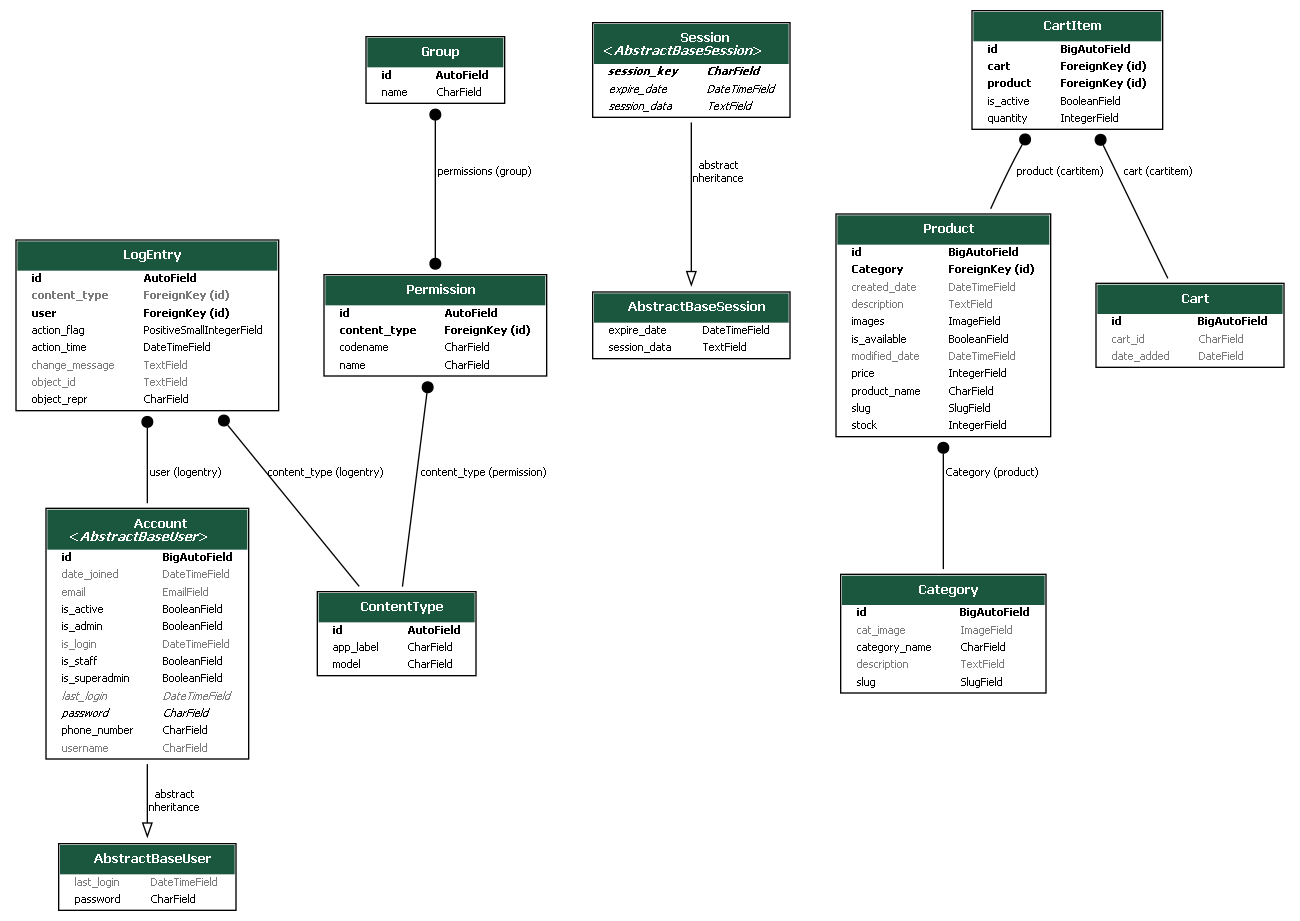
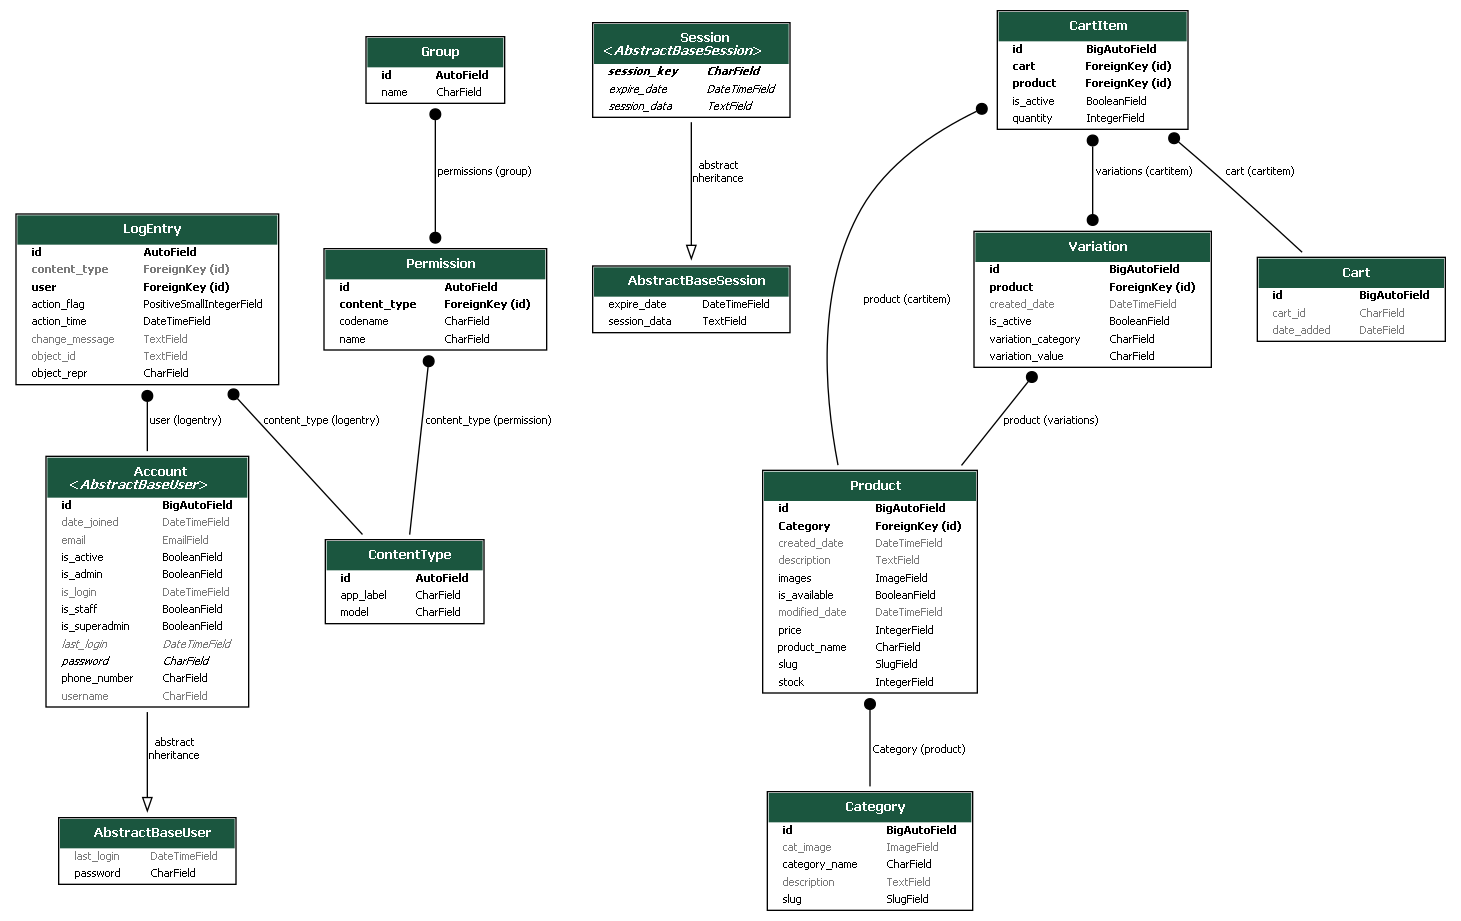
Final variation added

diff --git a/templates/cart/cart.html b/templates/cart/cart.html
@@ -42,12 +42,19 @@
 					<div class="col"> 
 						<div class="input-group input-spinner">
 							<div class="input-group-prepend">
-							<a href="{% url 'remove_cart' item.product.id %}" class="btn btn-light" type="button" id="button-plus"> <i class="fa fa-minus"></i> </a>
+							<a href="{% url 'remove_cart' item.product.id item.id %}" class="btn btn-light" type="button" id="button-plus"> <i class="fa fa-minus"></i> </a>
 							</div>
 							<input type="text" class="form-control"  value="{{item.quantity}}">
 							<div class="input-group-append">
-							<a href="{% url 'add_cart' item.product.id %}"class="btn btn-light" type="button" id="button-minus"> <i class="fa fa-plus"></i> </a>
-							</div>
+								<form action="{% url 'add_cart' item.product.id %}" method="POST">
+									{% csrf_token %}
+									{% for cart_item in item.variations.all %}
+									<input  type='hidden' name="{{cart_item.variation_category | lower }}" value="{{ cart_item.variation_value | capfirst}}">
+									{%endfor%}
+									<button class="btn btn-light" type="submit" id="button-minus"> <i class="fa fa-plus"></i> </button>
+
+						</form>
+						</div>
 						</div> <!-- input-group.// -->
 					</div> <!-- col.// -->
 	</td>
@@ -58,7 +65,7 @@
 		</div> <!-- price-wrap .// -->
 	</td>
 	<td class="text-right"> 
-	<a href="{% url 'remove_cart' item.product.id %}?delete=true" class="btn btn-danger"> Remove</a>
+	<a href="{% url 'remove_cart' item.product.id item.id %}?delete=true" onclick="return confirm('are you')" class="btn btn-danger"> Remove</a>
 	</td>
 </tr>
 {% endfor %}

diff --git a/cart/views.py b/cart/views.py
@@ -14,9 +14,11 @@ def add_cart(request, product_id):
     product = Product.objects.get(id=product_id)
     product_variation = []
     if request.method == 'POST':
+        
         for item in request.POST:
             key = item
             value = request.POST[key]
+            
             
             try:
                 variation = Variation.objects.get(product=product,variation_category__iexact=key,
@@ -37,43 +39,66 @@ def add_cart(request, product_id):
         cart = Cart.objects.create(cart_id=cart_id)
 
     cart_item = None
-    try:
-        # Attempt to retrieve the CartItem
-        cart_item = CartItem.objects.get(product=product, cart=cart)
-        if len(product_variation) > 0 :
-            cart_item.variations.clear()
-            for item in product_variation:
-                cart_item.variations.add(item)
-        cart_item.quantity += 1
-        cart_item.save()
-    except CartItem.DoesNotExist:
-        # Create a new CartItem if it does not exist
-        CartItem.objects.create(
-            product=product,
-            cart=cart,
-            quantity=1
+
+
+    is_cart_item_exists = CartItem.objects.filter(product=product,cart=cart).exists()
+    if is_cart_item_exists:
+        cart_item = CartItem.objects.filter(product=product,cart=cart)
+        ex_var_list = []
+        id=[]
+        for item in cart_item:
+            existing_variation = item.variations.all()
+            ex_var_list.append(list(existing_variation))
+            id.append(item.id)
+        
+        print(ex_var_list)
+
+        if product_variation in ex_var_list:
+            index = ex_var_list.index(product_variation)
+            item_id = id[index]
+            item = CartItem.objects.get(product=product,id=item_id)
+            item.quantity += 1
+            item.save()
+        
+        else:
+            item = CartItem.objects.create(product=product,quantity=1,cart=cart)
+            if len(product_variation) > 0 :
+                item.variations.clear()
+                item.variations.add(*product_variation)
+            item.save()
+    else:
+        cart_item = CartItem.objects.create(
+            product = product,
+            quantity = 1,
+            cart = cart,
         )
         if len(product_variation) > 0 :
-            cart_item.variations.clear()
-            for item in product_variation:
-                cart_item.variations.add(item)
+                cart_item.variations.clear()
+                cart_item.variations.add(*product_variation)
         cart_item.save()
+
     return redirect('cart')
 
-def remove_cart(request,product_id):
+
+
+
+def remove_cart(request,product_id,cart_item_id):
     delete = request.GET.get('delete', None)
     
     product = Product.objects.get(id=product_id)
     cart = Cart.objects.get(cart_id=_cart_id(request))
-    cart_item = CartItem.objects.get(product=product , cart = cart)
+    try: 
+        cart_item = CartItem.objects.get(product=product , cart = cart,id=cart_item_id)
 
-    if delete == 'true':
-        cart_item.delete()
-    elif cart_item.quantity > 1:
-        cart_item.quantity -= 1
-        cart_item.save()
-    else:
-        cart_item.delete()
+        if delete == 'true':
+            cart_item.delete()
+        elif cart_item.quantity > 1:
+            cart_item.quantity -= 1
+            cart_item.save()
+        else:
+            cart_item.delete()
+    except:
+        pass
     
     return redirect('cart')
     

diff --git a/cart/urls.py b/cart/urls.py
@@ -5,5 +5,6 @@ from . import views
 urlpatterns = [
     path('',views.cart,name='cart'),
     path('add_cart/<int:product_id>',views.add_cart,name='add_cart'),
-    path('remove_cart/<int:product_id>',views.remove_cart,name='remove_cart')
+    path('remove_cart/<int:product_id>/<int:cart_item_id>/',views.remove_cart,name='remove_cart'),
+    path('remove_cart/<int:product_id>/',views.remove_cart,name='remove_cart')
 ]
